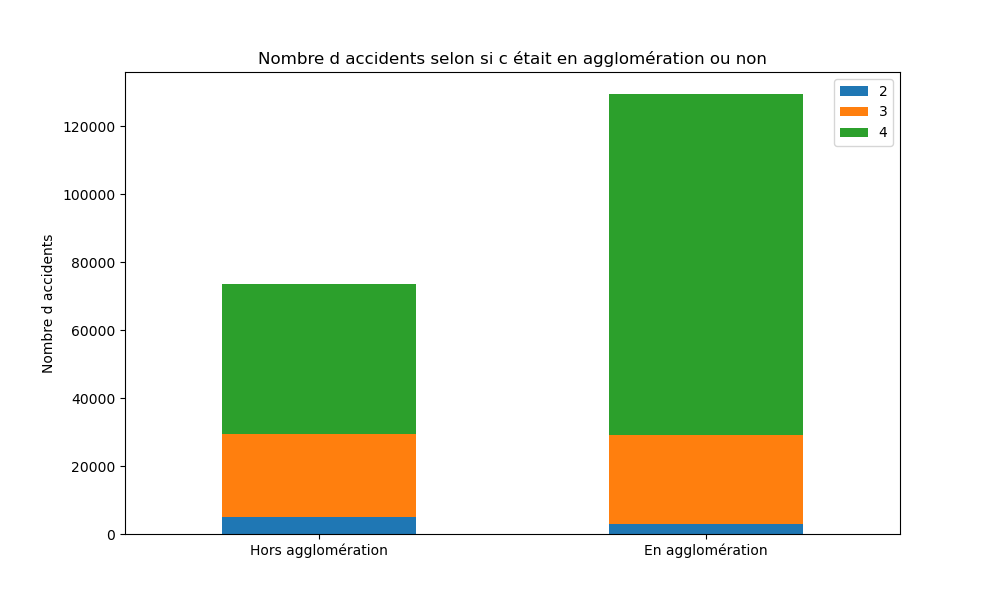
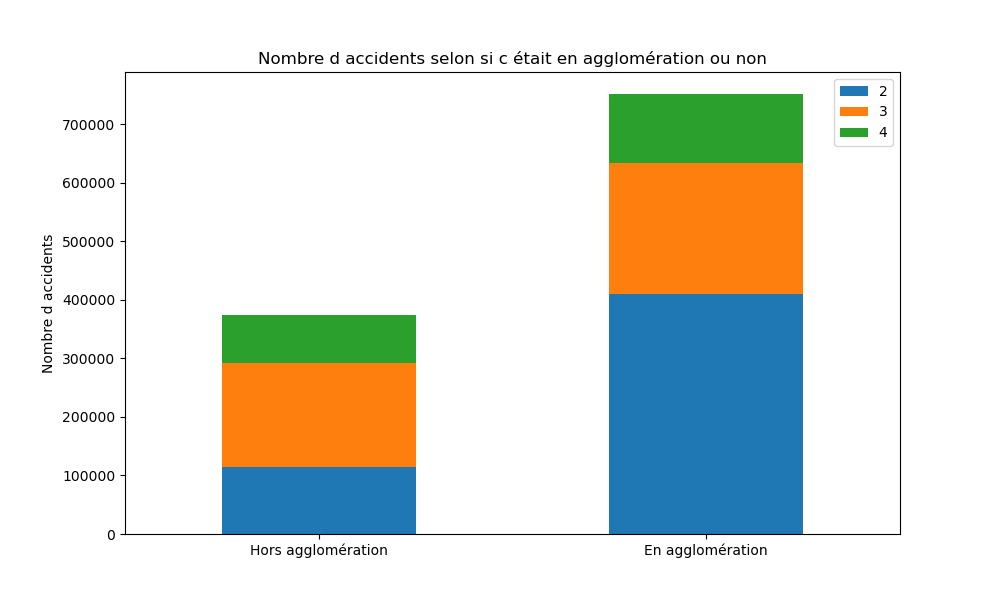
3/2/24

diff --git a/capucine/capucine.py b/capucine/capucine.py
@@ -4,14 +4,18 @@ import numpy as np
 import seaborn as sns
 
 path="/home/onyxia/projet-python/"
-file_name1="dataset_complet.csv"
-df= pd.read_csv(path+file_name1, sep=',',low_memory=False)
+file_name1="dataset_complet_part_1.csv"
+file_name2="dataset_complet_part_2.csv"
+df1= pd.read_csv(path+file_name1, sep=',',low_memory=False)
+df2= pd.read_csv(path+file_name2, sep=',',low_memory=False)
+df=pd.concat([df1,df2])
+df['grav'] = df['grav'].replace({'1':1,'2':2,'3':3,'4':4})
+df=df[df['grav']!='grav']
 
 # Par mois
 
-df['mois']=df['mois'].replace({'1':'01','2':'02','3':'03','4':'04','5':'05','6':'06','7':'07','8':'08','9':'09','1.0':'01','2.0':'02','3.0':'03','4.0':'04','5.0':'05','6.0':'06','7.0':'07','8.0':'08','9.0':'09','10.0':'10','11.0':'11','12.0':'12'})
+df['mois']=df['mois'].replace({'1':'01','2':'02','3':'03','4':'04','5':'05','6':'06','7':'07','8':'08','9':'09',1.0:'01',2.0:'02',3.0:'03',4.0:'04',5.0:'05',6.0:'06',7.0:'07',8.0:'08',9.0:'09',10.0:'10',11.0:'11',12.0:'12','1.0':'01','2.0':'02','3.0':'03','4.0':'04','5.0':'05','6.0':'06','7.0':'07','8.0':'08','9.0':'09','10.0':'10','11.0':'11','12.0':'12'})
 df=df[df['mois']!='mois']
-
 df = df[df['mois'].notna()]
 graph_df = df.groupby(['grav', 'mois']).size().reset_index(name='accident_count')
 graph_df = graph_df.pivot(index='grav', columns='mois', values='accident_count')
@@ -20,24 +24,18 @@ plt.figure(figsize=(10, 6))
 for gravity_type in graph_df.index:
     plt.plot(graph_df.columns, graph_df.loc[gravity_type], label=f'Gravity {gravity_type}', marker='o', linestyle='-')
 
-month_names = {
-    '01': 'Janvier', '02': 'Février', '03': 'Mars', '04': 'Avril',
-    '05': 'Mai', '06': 'Juin', '07': 'Juillet', '08': 'Août',
-    '09': 'Septembre', '10': 'Octobre', '11': 'Novembre', '12': 'Décembre'
-}
-plt.xticks(df['mois'].unique(), [month_names[month] for month in df['mois'].unique()],fontsize=8)
-
+plt.xticks(df['mois'].unique().astype(str), ['Janvier', 'Février','Mars', 'Avril','Mai', 'Juin', 'Juillet', 'Août','Septembre','Octobre', 'Novembre', 'Décembre'], fontsize=8)
 plt.ylabel('Nombre d accidents')
 plt.xlabel('Mois')
 plt.title('Nombre d accidents selon le mois')
 plt.legend()
-plt.savefig(path+'gagz/'+'mois.png')
+plt.savefig(path+'capucine/'+'mois.png')
 plt.show()
 
 
 # Par an
 
-df['an']=df['an'].replace({'5.0':'2005','6.0':'2006','7.0':'2007','8.0':'2008','9.0':'2009','10.0':'2010','11.0':'2011','12.0':'2012','13.0':'2013','14.0':'2014','15.0':'2015','16.0':'2016','17.0':'2017','18.0':'2018'})
+df['an']=df['an'].replace({5.0:'2005',6.0:'2006',7.0:'2007',8.0:'2008',9.0:'2009',10.0:'2010',11.0:'2011',12.0:'2012','12.0':'2012','13.0':'2013','14.0':'2014','15.0':'2015','16.0':'2016','17.0':'2017','18.0':'2018'})
 
 graph_df = df.groupby(['grav', 'an']).size().reset_index(name='accident_count')
 graph_df = graph_df.pivot(index='grav', columns='an', values='accident_count')
@@ -50,5 +48,5 @@ plt.ylabel('Nombre d accidents')
 plt.xlabel('An')
 plt.title('Nombre d accidents selon l année')
 plt.legend()
-plt.savefig(path+'gagz/'+'an.png')
+plt.savefig(path+'capucine/'+'an.png')
 plt.show()

diff --git a/soline/Soline.py b/soline/Soline.py
@@ -9,10 +9,9 @@ file_name2="dataset_complet_part_2.csv"
 df1= pd.read_csv(path+file_name1, sep=',',low_memory=False)
 df2= pd.read_csv(path+file_name2, sep=',',low_memory=False)
 df=pd.concat([df1,df2])
-
 df['grav'] = df['grav'].replace({'1':1,'2':2,'3':3,'4':4})
+df=df[df['grav']!='grav']
 
-print((df.isna().mean() * 100).round(2))
 
 # Graphique selon le type de route
 
@@ -35,8 +34,8 @@ plt.savefig(path+'soline/'+'type de route.png')
 plt.show()
 
 #Graphique selon la vitesse max de la route - Useless car trop de valeurs non renseignées
-
-"""df = df[df['vma'].notna()]
+"""
+df = df[df['vma'].notna()]
 allowed_values = ['30', '50', '70', '80', '90', '110', '130']
 df.drop(df[~df['vma'].isin(allowed_values)].index, inplace=True)
 df['vma']=df['vma'].replace({'30':30,'50':50,'70':70,'80':80,'90':90,'110':110,'130':130})
@@ -61,15 +60,15 @@ plt.show()"""
 
 # En agglomération ou hors?
 
+df['agg'] = df['agg'].astype(float)
 df = df[df['agg'].notna()]
 graph_df = df.groupby(['grav', 'agg']).size().reset_index(name='accident_count')
 graph_df = graph_df.pivot(index='grav', columns='agg', values='accident_count')
 
 graph_df = graph_df.transpose()
-#graph_df = graph_df.drop('grav', axis=1)
-#graph_df = graph_df.drop('agg', axis=0)
 ax=graph_df.plot(kind='bar', stacked=True, figsize=(10, 6))
 
+print(graph_df)
 ax.set_xticks(range(len(graph_df.index)))
 ax.set_xticklabels(['Hors agglomération', 'En agglomération'], rotation=0)
 plt.ylabel('Nombre d accidents')

diff --git a/python.py b/python.py
@@ -22,7 +22,9 @@ def dataset_per_year(year):
     df=pd.merge(df,df2,on='Num_Acc')
     file_name3="usagers_"+year+".csv"
     df2= pd.read_csv(path+file_name3, sep=',',low_memory=False)
-    df2['grav'] = df2['grav'].replace({2: 4, 4: 2})
+    if int(year)<2019:
+        df2['grav'] = df2['grav'].replace({2: 4, 4: 2})
+        df2['grav'] = df2['grav'].replace({'2': 4, '4': 2})
     grav_df = df2.groupby('Num_Acc')['grav'].max().reset_index()
     df=pd.merge(df,grav_df,on='Num_Acc')
     df=df.drop_duplicates()
@@ -42,6 +44,8 @@ def complete_dataset():
 
 df=complete_dataset()
 df['catr'] = pd.to_numeric(df['catr'], errors='coerce')
+df['grav'] = df['grav'].replace({'1':1,'2':2,'3':3,'4':4})
+
 """
 graph_df = df.groupby(['grav', 'catr']).size().reset_index(name='accident_count')
 graph_df = graph_df.pivot(index='grav', columns='catr', values='accident_count')
@@ -68,7 +72,6 @@ df_part1.to_csv(path+'dataset_complet_part_1.csv', index=False)
 df_part2.to_csv(path+'dataset_complet_part_2.csv', index=False)
 
 print((df.isna().mean() * 100).round(2))
-
 
 
 
